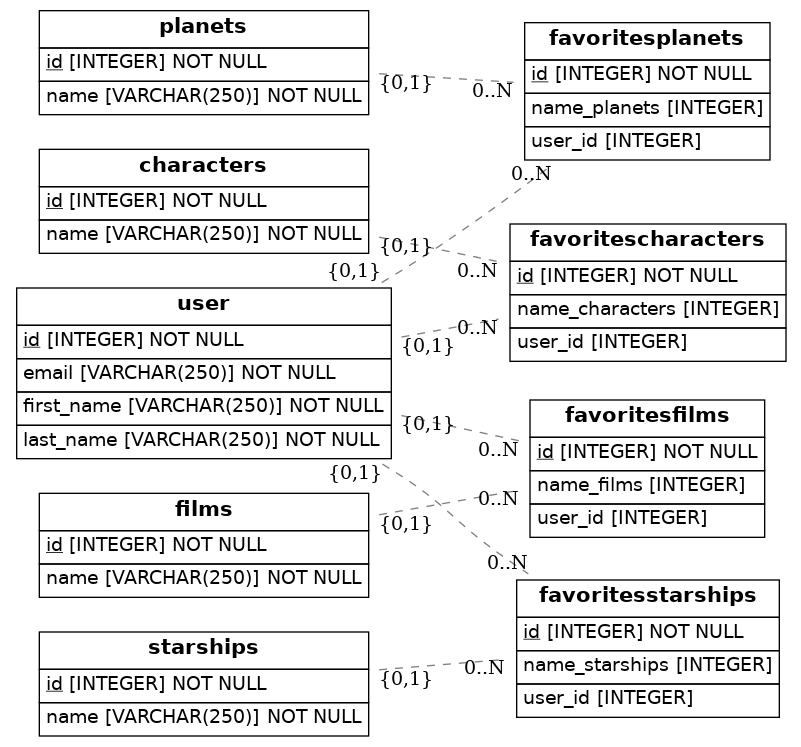
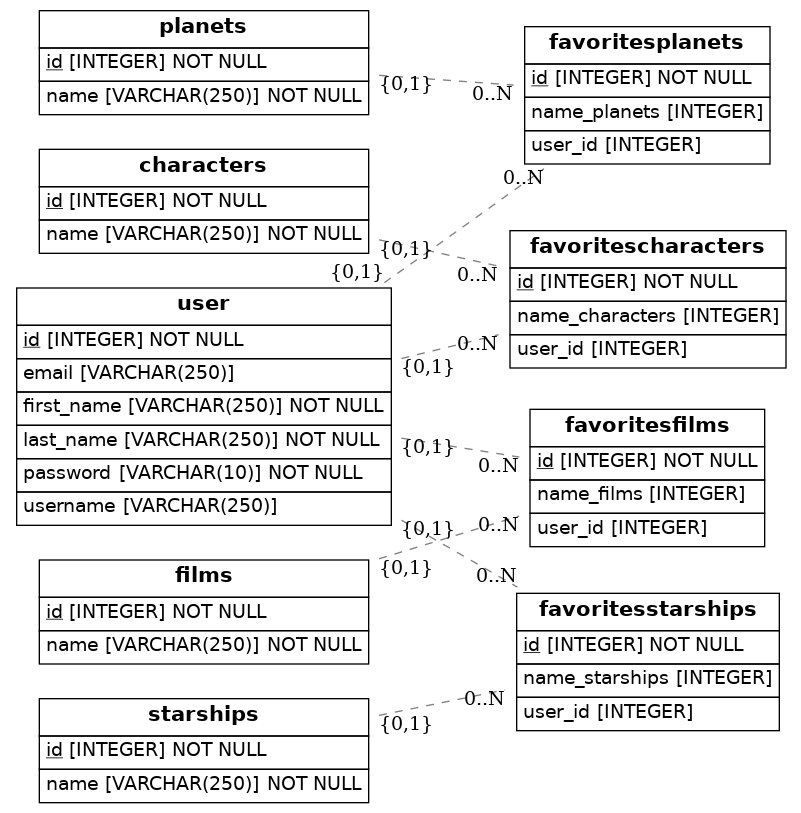
actualizar user

Changed region(s): [[0.0, 0.0, 0.9988, 1.0], [0.593, 0.0308, 0.9675, 0.2463]]

diff --git a/src/models.py b/src/models.py
@@ -1,6 +1,6 @@
 import os
 import sys
-from sqlalchemy import Column, ForeignKey, Integer, String
+from sqlalchemy import Column, ForeignKey, Integer, String, UniqueConstraint
 from sqlalchemy.ext.declarative import declarative_base
 from sqlalchemy.orm import relationship
 from sqlalchemy import create_engine
@@ -13,9 +13,15 @@ class User(Base):
     # Here we define columns for the table person
     # Notice that each column is also a normal Python instance attribute.
     id = Column(Integer, primary_key=True)
+    username = Column(String(250),unique=True)
     first_name = Column(String(250), nullable=False)
     last_name = Column(String(250), nullable=False)
-    email = Column(String(250), nullable=False)
+    email = Column(String(250), unique=True)
+    password = Column(String(10),nullable=False)
+
+    table_args = (
+        UniqueConstraint('email','username'),
+    )
 
 class Characters(Base):
     __tablename__ = 'characters'
